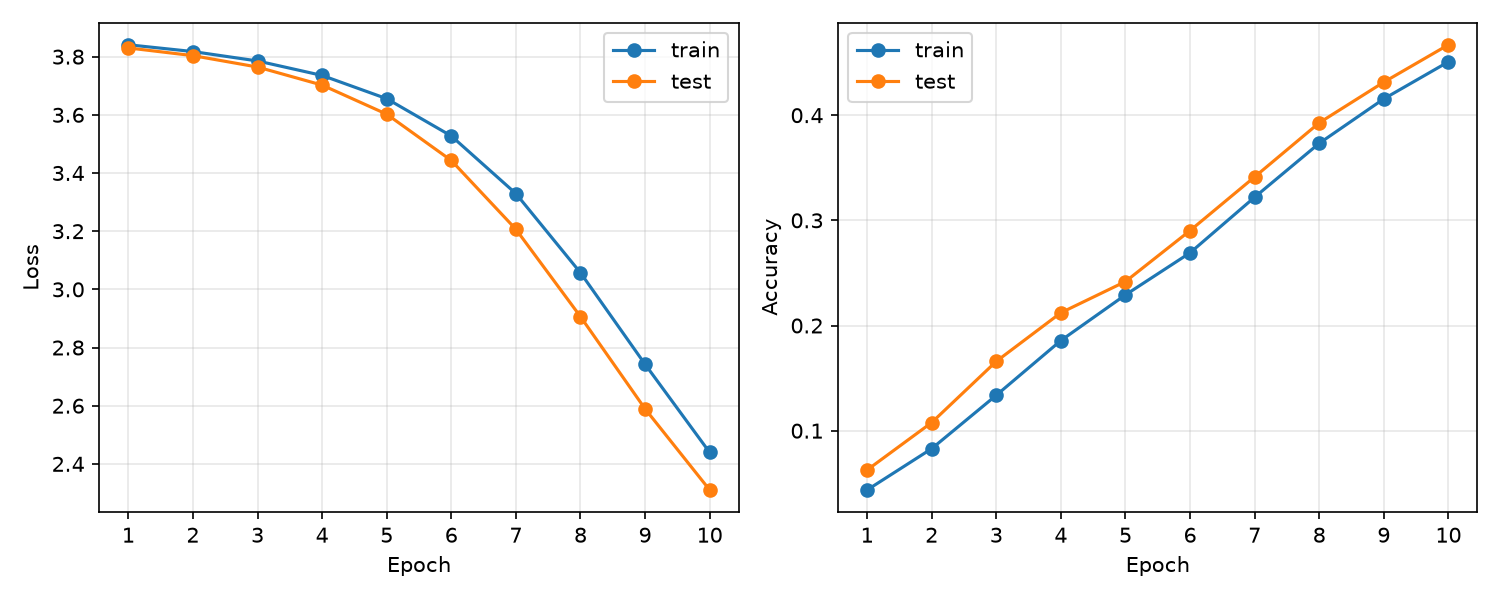
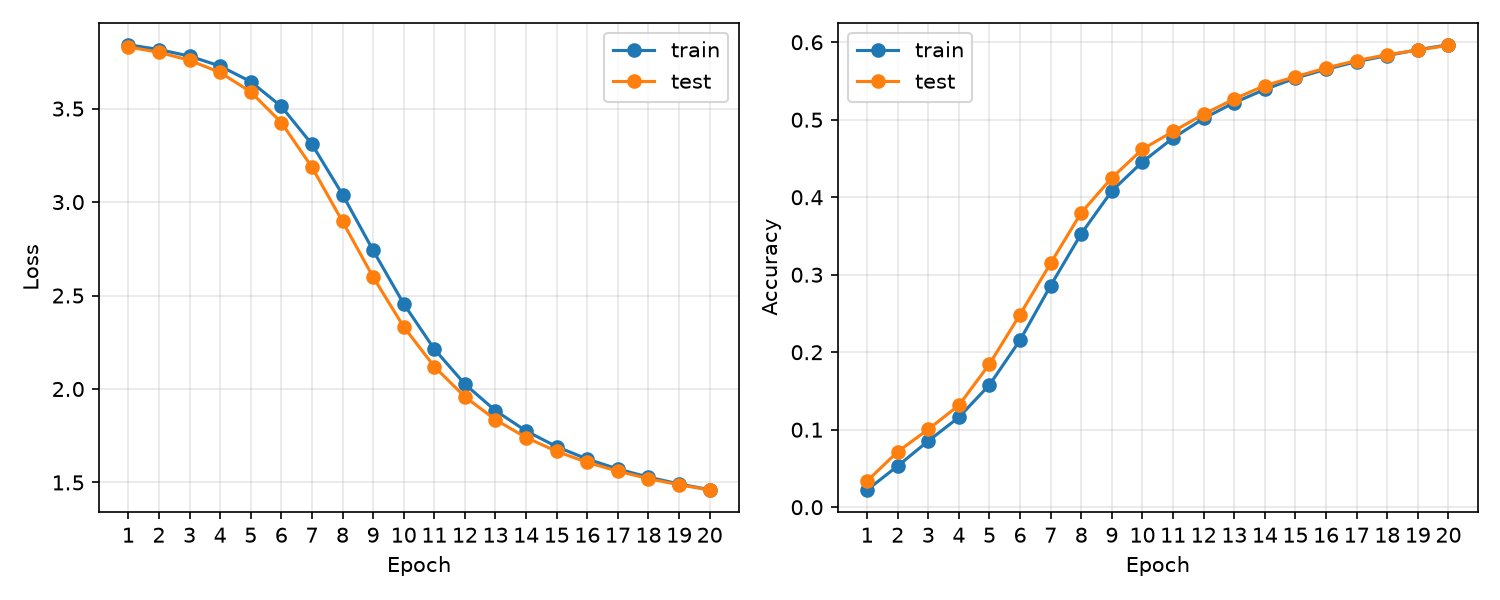
优化README

diff --git a/SimpleGrayClassification/main.py b/SimpleGrayClassification/main.py
@@ -23,7 +23,7 @@ def main():
     loss_fn = torch.nn.CrossEntropyLoss()
     optimizer = torch.optim.SGD(model.parameters(), lr=1e-3)
     
-    epochs = 10
+    epochs = 20
     history = []
     for turn in range(epochs):
         print(f"Epoch {turn+1}\n-------------------------------")

diff --git a/SimpleGrayClassification/README.md b/SimpleGrayClassification/README.md
@@ -1,0 +1,175 @@
+# SimpleGrayClassification
+
+> 参考来源：PyTorch 官方 [Learn the Basics](https://docs.pytorch.org/tutorials/beginner/basics/intro.html) 系列教程，主要参考 [Quickstart](https://docs.pytorch.org/tutorials/beginner/basics/quickstart_tutorial.html) 的数据加载、网络训练、评估及参数保存流程。数据集来源：[NIST EMNIST](https://www.nist.gov/itl/products-and-services/emnist-dataset)。
+
+这是一个基于 PyTorch 入门练习的 **EMNIST Balanced 47 类手写字符分类项目**。项目使用多层全连接网络，学习从数据加载到训练、评估和可视化的完整流程。目前属于基础实验，尚未完成性能优化或独立最终测试。
+
+## 参考内容与项目扩展
+
+教程原例使用 FashionMNIST 进行服装分类。本项目基于教程流程进行了以下整理和扩展：
+
+| 部分 | 来源与改动 |
+| --- | --- |
+| Dataset、DataLoader、训练与评估循环 | 参考 PyTorch 入门教程的基本用法 |
+| 数据集与模型 | 将 FashionMNIST 换为 EMNIST Balanced；网络调整为 `784 → 512 → 256 → 47` |
+| 文件组织 | 将入口、模型、数据加载、训练、评估拆分为单独模块，并补充学习注释 |
+| 指标记录 | 在教程流程上增加整轮损失、准确率统计和 CSV 保存，损失按样本数加权平均 |
+| 可视化 | 增加数据样例、训练曲线、预测结果图及单张测试图片保存 |
+| 独立预测入口 | 增加 `predict.py`，加载本地参数后生成样例预测结果 |
+
+上述扩展是在学习过程中结合 AI 辅助完成的代码整理与功能实现，不将教程中的基础流程作为原创算法。
+
+## 项目结构
+
+```text
+SimpleGrayClassification/
+├── README.md           # 项目说明
+├── main.py             # 训练、每轮评估、记录指标和保存参数
+├── download_data.py    # 下载 EMNIST，创建训练与评估 DataLoader
+├── mmModel.py          # 定义全连接网络
+├── train.py            # 更新参数并返回训练指标
+├── test.py             # 评估函数，不更新网络参数
+├── visualize.py        # 保存图片、预测 CSV 和曲线
+├── predict.py          # 加载已训练参数，生成样例预测
+├── data/               # 下载的数据，Git 忽略
+├── model.pth           # 训练后生成的参数，Git 忽略
+└── outputs/            # 实验记录与图片，Git 忽略
+```
+
+## 环境与依赖
+
+需要 Python、PyTorch、torchvision 和 matplotlib。项目当前没有单独的依赖文件；依赖安装方式集中记录在这里。
+
+```bash
+python -m pip install torch torchvision matplotlib
+```
+
+有 NVIDIA GPU 时，可根据 [PyTorch 官方安装页面](https://pytorch.org/get-started/locally/) 选择适合本机的安装命令。没有 GPU 也可以使用 CPU。
+
+开发环境曾使用 Python 3.12、PyTorch `2.14.0+cpu`、torchvision `0.29.0+cpu` 和 matplotlib `3.11.2` 进行小批次流程检查。这是已检查过的环境记录，并非对其他版本兼容性的保证，也不代表下方完整实验使用环境已被完整记录。代码使用了 `torch.accelerator` 和 torchvision transforms v2，过旧版本可能不支持。
+
+## 数据集与预处理
+
+- 使用 `datasets.EMNIST(..., split="balanced")`，共 47 类手写数字和字母，标签索引为 0～46。
+- 图片为 28×28 单通道灰度图，训练集 112,800 张，官方测试集 18,800 张。
+- `split="balanced"` 选择数据集版本；`train=True` / `False` 分别选择该版本的训练集和官方测试集。
+- `v2.ToImage()` 将图片转为图像张量；`v2.ToDtype(torch.float32, scale=True)` 转成浮点数，并将像素缩放至 0～1。
+- 当前未增加数据增强或额外的均值、标准差归一化。
+- 数据固定保存到 `download_data.py` 旁的 `data/`，首次启动会通过 torchvision 自动下载，后续复用本地数据。首次运行需要网络连接和解压空间。
+
+### 当前验证与最终测试的区别
+
+**本文将每轮评估使用的数据称为“验证用评估集”。** 当前代码实际加载的仍是 EMNIST 官方测试集，函数名、终端输出、CSV 列名和曲线图例仍使用 `test`；它们在这里对应验证用途，不代表已经完成独立最终测试。
+
+因为每轮都观察它的指标，并据此决定是否继续训练或调整超参数，这份数据已参与模型开发。它不会反向传播或更新参数，但已经不适合被视为完全未参与模型选择的最终测试集。
+
+当前代码**尚未从训练集单独划出验证集，也未保留一份未参与调参的最终测试集**。仅修改文档或重命名曲线不能解决这一点。下一步应先确定训练、验证、最终测试的划分：使用训练集更新参数，使用验证集选择训练轮数和超参数，方案确定后才在未参与调参的数据上进行一次最终评估。如果官方测试集已用于调参，应如实披露；之后再划分数据也无法追溯地消除既有影响。
+
+## 运行方法
+
+在仓库根目录进入项目目录：
+
+```bash
+cd SimpleGrayClassification
+python main.py
+```
+
+程序会加载数据、保存训练样例图，随后执行训练和每轮评估，记录曲线与指标，全部训练结束后保存 `model.pth` 及预测样例。当前 `main.py` 配置为 **20 轮**。
+
+如果在 VS Code 中运行，先通过 `Python: Select Interpreter` 选择已安装依赖的环境，并确认打开的是 `main.py`。使用 Code Runner 时，应运行完整文件；终端命令末尾应是 `main.py`，而不是 `tempCodeRunnerFile.py`。
+
+### 加载已有参数生成预测样例
+
+```bash
+python predict.py
+```
+
+运行前必须先完成一次 `python main.py`，生成本目录下的 `model.pth`。仓库通过 `.gitignore` 排除参数文件，当前没有提供可下载权重，因此克隆项目后不能直接假设该文件存在。
+
+`predict.py` 创建相同网络，使用 `torch.load(..., map_location=device, weights_only=True)` 加载参数，再抽取 16 张评估集图片保存预测。它不会重新训练，也不会计算完整评估集指标。旧 FashionMNIST 的 10 类参数与当前 47 类输出层不兼容。
+
+重新运行 `main.py` 会重新初始化网络，并覆盖同名参数、曲线和 CSV；它目前不是断点续训。需要保留不同实验时，请先备份旧结果。
+
+## 模型与训练配置
+
+```text
+输入 [N, 1, 28, 28]
+    → Flatten
+    → Linear(784, 512) → ReLU
+    → Linear(512, 256) → ReLU
+    → Linear(256, 47)
+    → 输出 [N, 47] logits
+```
+
+| 配置 | 当前值 |
+| --- | --- |
+| 模型 | 多层全连接网络（MLP），未使用卷积层 |
+| 损失函数 | CrossEntropyLoss |
+| 优化器 | SGD，未设置 momentum |
+| 学习率 | 0.001 |
+| 批次大小 | 64 |
+| 训练轮数 | 20 |
+| 训练数据顺序 | 每轮打乱 |
+| 设备 | `main.py` 自动选择可用加速器，否则使用 CPU |
+
+训练时直接将 logits 传给交叉熵损失；展示预测时才使用 softmax，再选择概率最大的类别。评估使用 `model.eval()` 和 `torch.no_grad()`，没有执行 `backward()` 或 `optimizer.step()`，因此不更新参数。
+
+## 当前实验结果
+
+以下数值来自本地 `outputs/history.csv` 中已有的 20 轮记录，并非本次编写 README 时重新训练所得。早先“10 轮约 46.7%”的描述已被更新记录替代：当前记录第 10 轮实际为 **46.20%**。
+
+| 轮数 | 训练损失 | 训练准确率 | 验证用评估损失 | 验证用评估准确率 |
+| --- | --- | --- | --- | --- |
+| 1 | 3.8415 | 2.22% | 3.8299 | 3.39% |
+| 10 | 2.4557 | 44.57% | 2.3329 | 46.20% |
+| 20 | 1.4613 | 59.68% | 1.4598 | 59.61% |
+
+这些评估数值对应 CSV 中的 `test_loss` 和 `test_accuracy`。训练指标是在参数不断更新的各个批次上累计的，评估指标是在整轮训练结束后的模型上计算的，因此两者并非完全相同条件下的比较。
+
+第 20 轮较第 19 轮的评估准确率仍有上升，损失仍在下降，说明在这次记录的训练范围内尚未出现明显平台。训练和评估准确率接近，仅凭这些记录没有看到明显的训练集与评估集差距；这不能证明模型已经充分训练，也不能代替独立最终测试。
+
+目前结果仍有较大改进空间。可以后续比较训练轮数、学习率、优化器及 CNN 等方案，但应在先确定验证协议后再进行比较。本项目不将当前结果描述为已优化完成的字符识别系统。
+
+训练没有固定完整的随机种子，也没有保存每次实验的完整环境和配置快照，因此重新运行不保证得到完全相同的数值。
+
+### 预测错例分析
+
+下面是本地 `outputs/test_predictions.csv` 中的部分真实错例，索引指向当前官方测试集：
+
+| 样例索引 | 真实字符 | 预测字符 | 预测概率 | 观察与待核查方向 |
+| --- | --- | --- | --- | --- |
+| 7756 | O | 0 | 48.48% | 字母 O 与数字 0 有形状相似性，需要结合具体笔迹检查混淆 |
+| 6665 | B | 8 | 22.72% | B 与 8 都可能有两个封闭区域，是值得检查的形状混淆 |
+| 15542 | g | O | 61.64% | 模型在错误预测上仍给出较高概率，最大概率不等于可靠程度 |
+| 4116 | r | n | 60.27% | 可进一步检查笔画差异是否被模型区分，以及相同类别的更多样例 |
+
+上述形状解释是根据标签对提出的分析方向，不是对图片成因的确定结论。应结合预测图或对应单张图片继续核查。固定抽取的 16 张样例仅用于观察，不能代表所有类别的错误分布；后续可增加混淆矩阵和各类别指标分析。
+
+## 输出文件与可视化
+
+所有结果位于项目的 `outputs/` 目录：
+
+| 文件 | 内容 |
+| --- | --- |
+| `data_samples.png` | 16 张训练图片及真实字符 |
+| `training_curves.png` | 每轮训练与验证用评估的损失、准确率曲线；代码图例仍标为 `test` |
+| `history.csv` | 每轮指标，准确率以 0～1 保存 |
+| `test_predictions.png` | 16 张评估图片，标注真实字符、预测字符和最大 softmax 概率 |
+| `test_predictions.csv` | 样例索引、真实与预测类别、概率、正确与否、图片相对路径 |
+| `sample_images/` | 对应样例的独立灰度 PNG |
+
+`save_samples()` 使用固定种子 `42` 选择样例，便于在同一数据集上比较不同模型；这只固定样例选择，不固定整个训练过程。预测正确用绿色标题，错误用红色标题。softmax 概率未经校准，不应直接解释为真实正确率。
+
+图片通过 matplotlib 的 `Agg` 后端保存，不弹出绘图窗口。`outputs/` 已被 Git 忽略，因此以上记录和图片默认不会随仓库发布。本文结果表作为当前实验摘要保留；读者运行项目后可生成自己的输出。如需发布原始记录和图，应另外明确选择需要公开的实验产物。
+
+## 当前实现限制与后续整理
+
+- `download_data.py` 在导入时就创建数据集、必要时下载数据，并打印一个批次的形状；`mmModel.py` 在导入时创建并打印模型。后续可将这些操作改为由入口函数明确控制，目前尚未调整。
+- `predict.py` 导入现有数据模块时也会创建训练集和评估集，虽然预测只使用评估数据。
+- 当前没有独立验证集与未参与调参的最终测试集，发布的准确率应理解为开发过程中的评估结果。
+- 当前没有单独的依赖文件、可下载权重或完整实验复现配置。依赖和生成权重的步骤见上文。
+- 本次仅编写说明文档，没有更改数据划分、训练代码、评估名称或模型实现。
+
+## 已做的运行检查
+
+此前在安装好依赖的环境中，已检查数据加载、小批次训练和评估、样例图片与预测 CSV 保存、训练曲线绘制；也曾实际启动 `main.py` 并观察到训练批次运行。完整实验结果取自上述已有 CSV，不将小批次检查视为完整训练或准确率验证。
